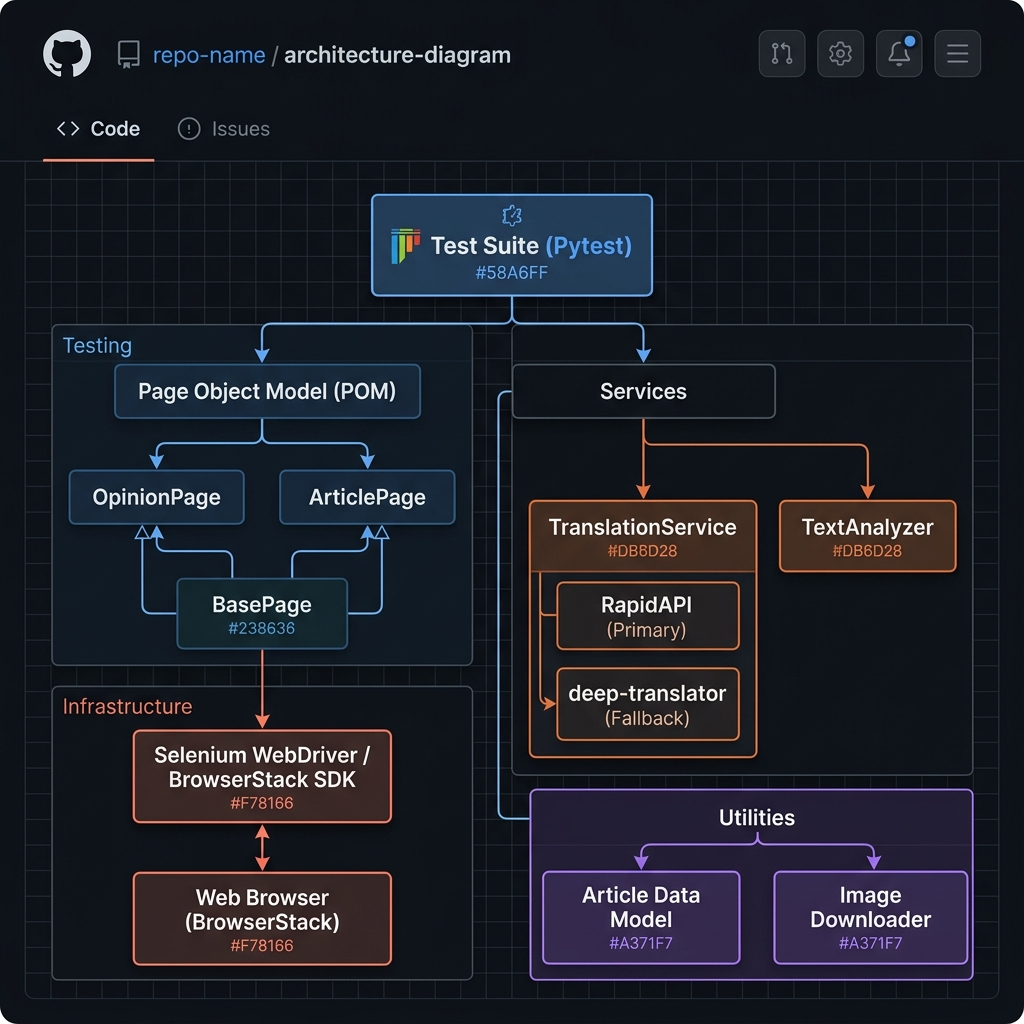
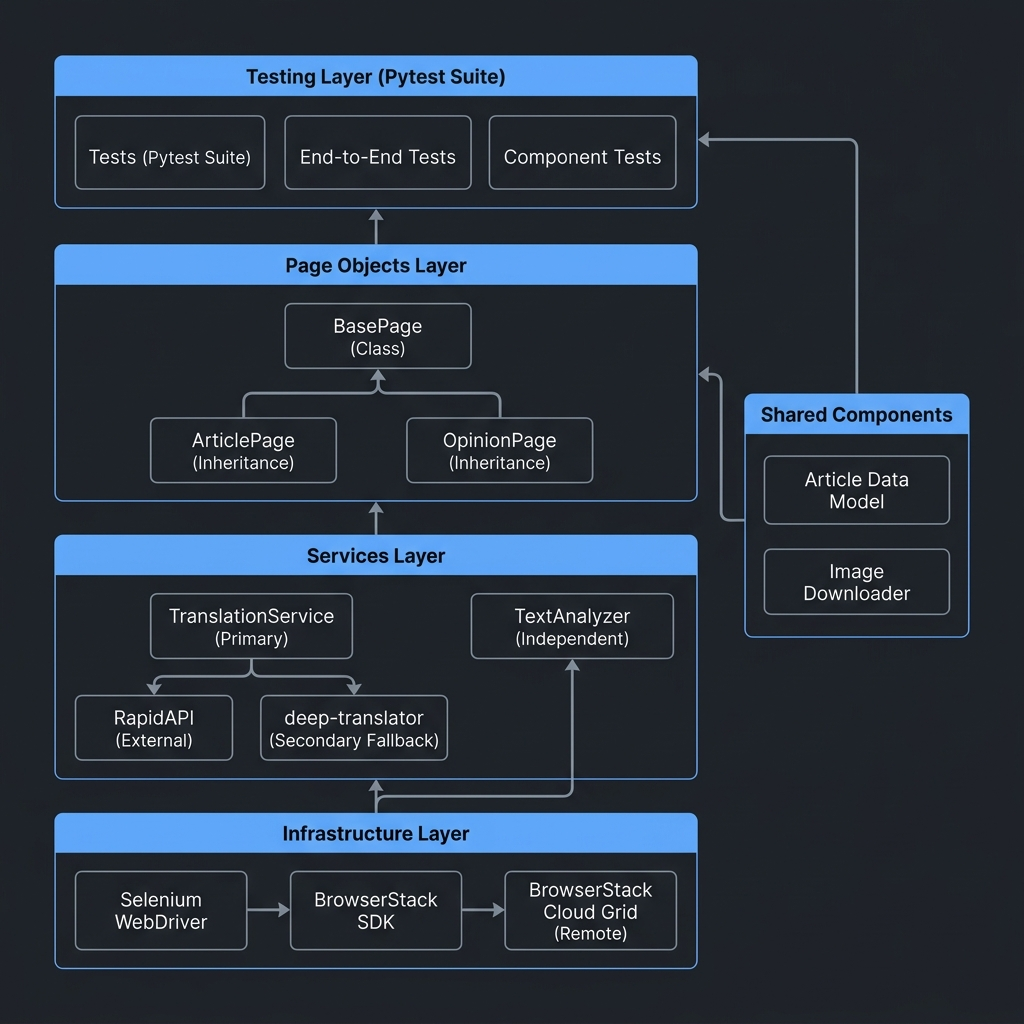
docs: update architecture diagram to reflect component layers and inheritance relations

diff --git a/README.md b/README.md
@@ -21,16 +21,56 @@ Automated Selenium test suite that scrapes opinion articles from Spanish news ou
 
 ## Architecture
 
-The framework decouples page interaction, business logic, data modeling, and test orchestration.
+The framework is structured into distinct layers separating test orchestration, page interactions, business services, infrastructure, and shared components.
+
+```mermaid
+classDiagram
+    direction TB
+
+    namespace Testing_Layer {
+        class PytestSuite["test_elpais_scraper.py"]
+        class UnitTests["test_text_analyzer.py"]
+    }
+
+    namespace Page_Objects_Layer {
+        class BasePage["BasePage"]
+        class OpinionPage["OpinionPage"]
+        class ArticlePage["ArticlePage"]
+    }
+
+    namespace Services_Layer {
+        class TranslationService["TranslationService\n(RapidAPI + deep-translator fallback)"]
+        class TextAnalyzer["TextAnalyzer"]
+    }
+
+    namespace Infrastructure_Layer {
+        class SeleniumWebDriver["Selenium WebDriver"]
+        class BrowserStackSDK["BrowserStack SDK"]
+        class BrowserStackCloud["BrowserStack Cloud Grid"]
+    }
+
+    namespace Shared_Components {
+        class ArticleModel["Article Dataclass"]
+        class ImageDownloader["utils.download_image"]
+    }
+
+    PytestSuite --> OpinionPage : Uses
+    PytestSuite --> ArticlePage : Uses
+    PytestSuite --> TranslationService : Uses
+    PytestSuite --> TextAnalyzer : Uses
+    PytestSuite --> ImageDownloader : Uses
+
+    OpinionPage --|> BasePage : Inherits
+    ArticlePage --|> BasePage : Inherits
+
+    BasePage --> SeleniumWebDriver : Controls
+    SeleniumWebDriver --> BrowserStackSDK : Intercepted by
+    BrowserStackSDK --> BrowserStackCloud : Executes on
+```
 
 ![Architecture Diagram](docs/images/architecture.png)
 
-```
-Test Runner (pytest / BrowserStack SDK)
- ├── Page Object Model (BasePage -> OpinionPage, ArticlePage)
- ├── Services (TranslationService, TextAnalyzer)
- └── Data & Utilities (Article dataclass, Image Downloader)
-```
+*The framework follows a layered architecture based on the Page Object Model (POM), separating test orchestration, page interactions, business services, infrastructure, and shared components.*
 
 ---
 
@@ -45,7 +85,7 @@ browserstack-assgn/
 │   ├── base_page.py           # Explicit waits, scrolling, cookie handler
 │   ├── opinion_page.py        # Opinion section listing & language check
 │   └── article_page.py        # Synchronized article detail page extraction
-├── services/                  # Business logic (no Selenium dependency)
+├── services/                  # Independent business services
 │   ├── translator.py          # RapidAPI client with fallback translator
 │   └── text_analyzer.py       # Regex tokenization & stopword filtering
 ├── tests/                     # Test suite
